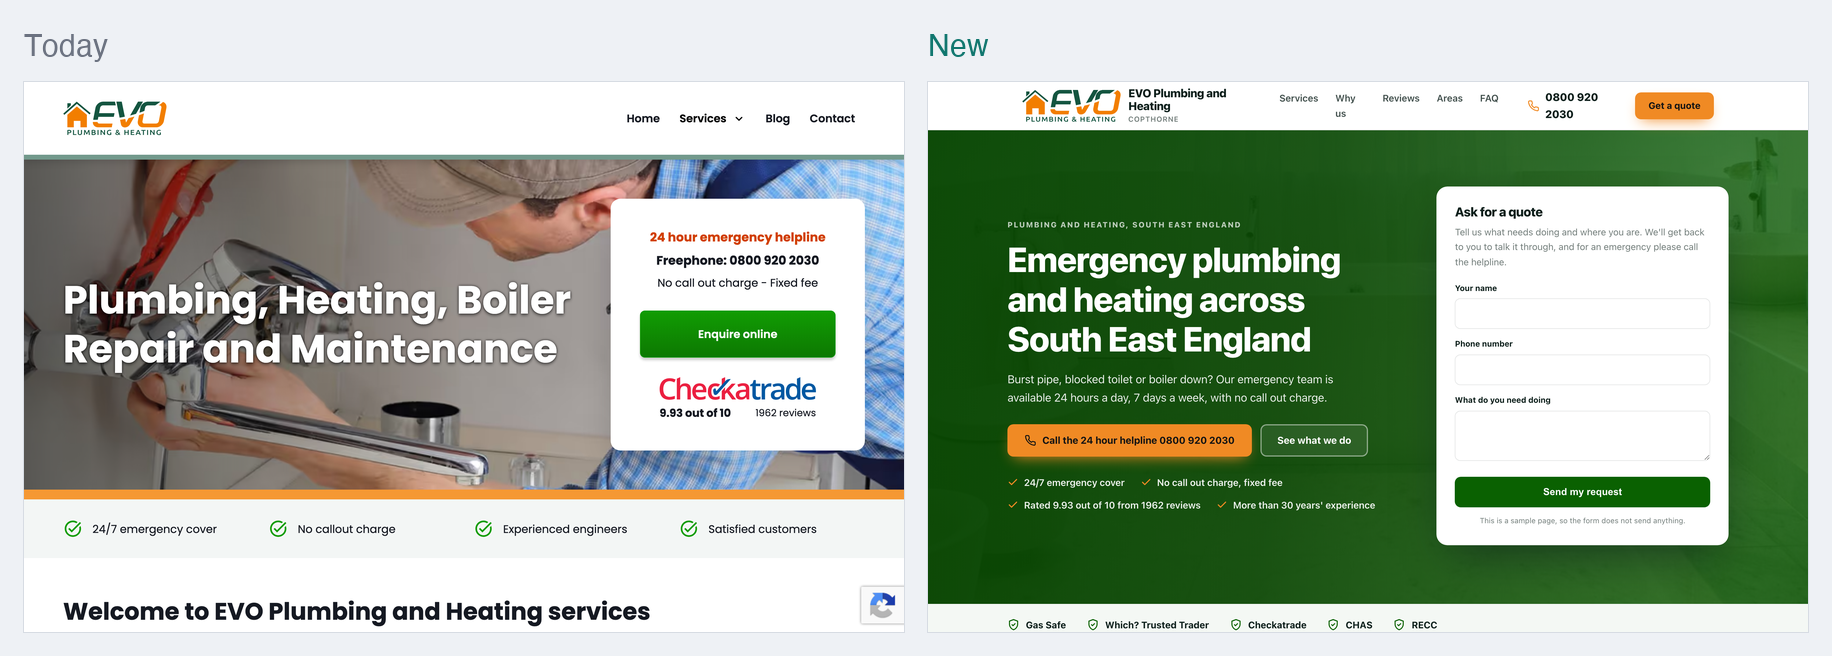
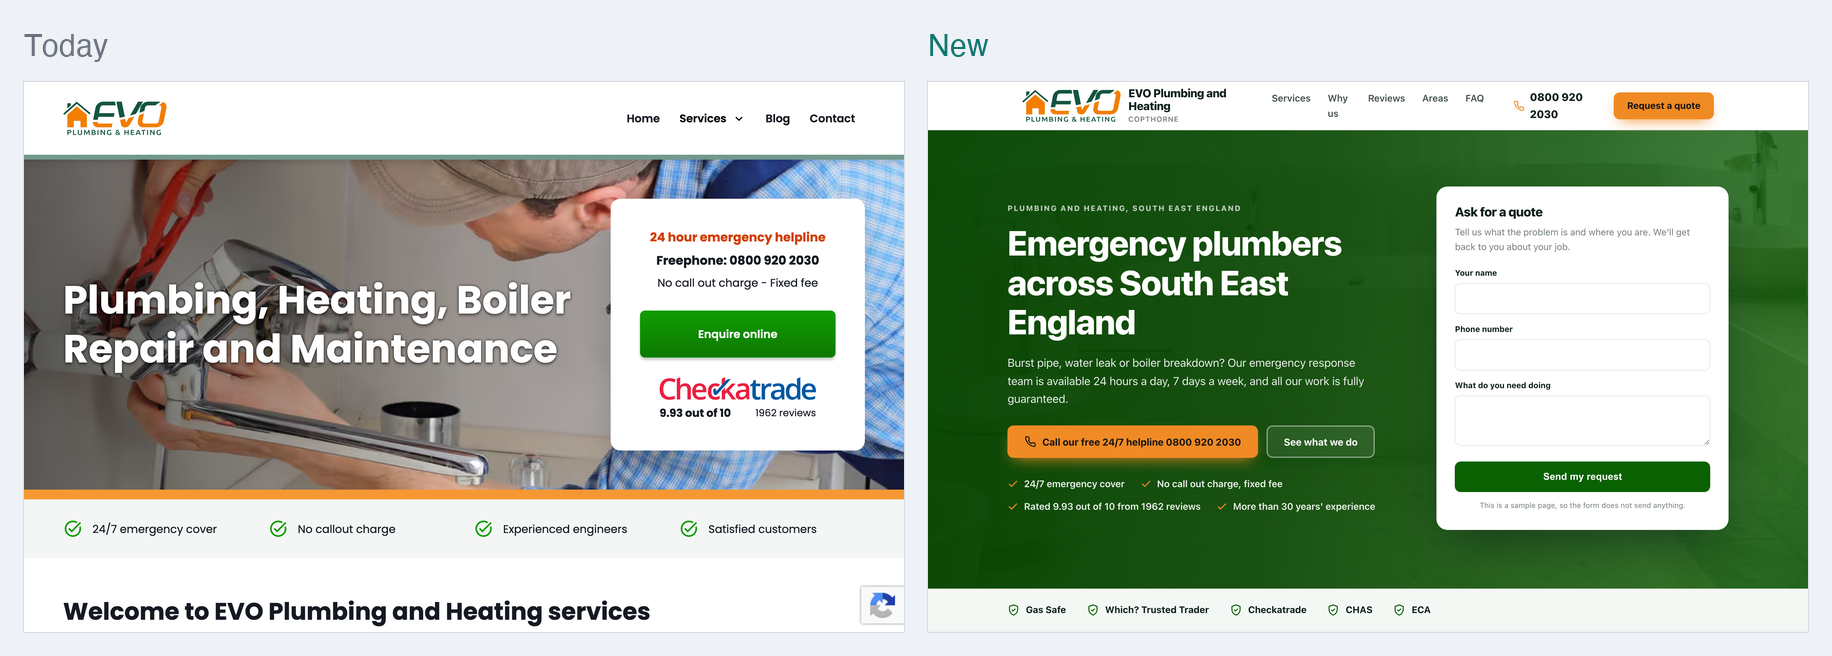
One page sample for EVO Plumbing and Heating

diff --git a/docs/62a7610696/index.html b/docs/62a7610696/index.html
@@ -4,14 +4,14 @@
 <meta charset="utf-8">
 <meta name="viewport" content="width=device-width, initial-scale=1">
 <meta name="robots" content="noindex,nofollow">
-<meta name="aso-build" content="db15c24f7314">
-<title>Plumber in Copthorne | EVO Plumbing and Heating</title>
-<meta name="description" content="Plumbing, heating and boiler repairs across Surrey, Sussex, Kent, Hampshire and London. Emergency cover 24/7 with no call out charge.">
+<meta name="aso-build" content="7d293884d419">
+<title>Plumbing and Heating in Copthorne | EVO Plumbing and Heating</title>
+<meta name="description" content="Plumbing, heating and boiler repairs across South East England from EVO Plumbing and Heating. 24/7 emergency cover with no call out charge.">
 <link rel="canonical" href="https://markygff.github.io/aso-mockups/62a7610696/">
 <meta property="og:type" content="website">
 <meta property="og:site_name" content="EVO Plumbing and Heating">
-<meta property="og:title" content="Plumber in Copthorne | EVO Plumbing and Heating">
-<meta property="og:description" content="Plumbing, heating and boiler repairs across Surrey, Sussex, Kent, Hampshire and London. Emergency cover 24/7 with no call out charge.">
+<meta property="og:title" content="Plumbing and Heating in Copthorne | EVO Plumbing and Heating">
+<meta property="og:description" content="Plumbing, heating and boiler repairs across South East England from EVO Plumbing and Heating. 24/7 emergency cover with no call out charge.">
 <meta property="og:url" content="https://markygff.github.io/aso-mockups/62a7610696/">
 <meta property="og:image" content="img/p02.jpg"><meta name="twitter:card" content="summary_large_image">
 <style>
@@ -283,7 +283,7 @@ p{margin:0}
       <a class="tel" href="tel:+448009202030">
         <svg viewBox="0 0 24 24" fill="none" stroke="currentColor" stroke-width="2" stroke-linecap="round" stroke-linejoin="round" aria-hidden="true"><path d="M22 16.9v3a2 2 0 0 1-2.2 2 19.8 19.8 0 0 1-8.6-3.1 19.5 19.5 0 0 1-6-6 19.8 19.8 0 0 1-3.1-8.7A2 2 0 0 1 4.1 2h3a2 2 0 0 1 2 1.7c.1 1 .4 1.9.7 2.8a2 2 0 0 1-.5 2.1L8.1 9.9a16 16 0 0 0 6 6l1.3-1.2a2 2 0 0 1 2.1-.5c.9.3 1.8.6 2.8.7a2 2 0 0 1 1.7 2z"/></svg><span>0800 920 2030</span>
       </a>
-      <a class="btn btn-accent" href="#quote">Get a quote</a>
+      <a class="btn btn-accent" href="#quote">Request a quote</a>
     </div>
   </div>
 </header>
@@ -293,10 +293,10 @@ p{margin:0}
   <div class="wrap hero-in">
     <div>
       <p class="eyebrow">Plumbing and heating, South East England</p>
-      <h1>Emergency plumbing and heating across South East England</h1>
-      <p class="hero-sub">Burst pipe, blocked toilet or boiler down? Our emergency team is available 24 hours a day, 7 days a week, with no call out charge.</p>
+      <h1>Emergency plumbers across South East England</h1>
+      <p class="hero-sub">Burst pipe, water leak or boiler breakdown? Our emergency response team is available 24 hours a day, 7 days a week, and all our work is fully guaranteed.</p>
       <div class="hero-actions">
-        <a class="btn btn-accent" href="tel:+448009202030"><svg viewBox="0 0 24 24" fill="none" stroke="currentColor" stroke-width="2" stroke-linecap="round" stroke-linejoin="round" aria-hidden="true"><path d="M22 16.9v3a2 2 0 0 1-2.2 2 19.8 19.8 0 0 1-8.6-3.1 19.5 19.5 0 0 1-6-6 19.8 19.8 0 0 1-3.1-8.7A2 2 0 0 1 4.1 2h3a2 2 0 0 1 2 1.7c.1 1 .4 1.9.7 2.8a2 2 0 0 1-.5 2.1L8.1 9.9a16 16 0 0 0 6 6l1.3-1.2a2 2 0 0 1 2.1-.5c.9.3 1.8.6 2.8.7a2 2 0 0 1 1.7 2z"/></svg>Call the 24 hour helpline 0800 920 2030</a>
+        <a class="btn btn-accent" href="tel:+448009202030"><svg viewBox="0 0 24 24" fill="none" stroke="currentColor" stroke-width="2" stroke-linecap="round" stroke-linejoin="round" aria-hidden="true"><path d="M22 16.9v3a2 2 0 0 1-2.2 2 19.8 19.8 0 0 1-8.6-3.1 19.5 19.5 0 0 1-6-6 19.8 19.8 0 0 1-3.1-8.7A2 2 0 0 1 4.1 2h3a2 2 0 0 1 2 1.7c.1 1 .4 1.9.7 2.8a2 2 0 0 1-.5 2.1L8.1 9.9a16 16 0 0 0 6 6l1.3-1.2a2 2 0 0 1 2.1-.5c.9.3 1.8.6 2.8.7a2 2 0 0 1 1.7 2z"/></svg>Call our free 24/7 helpline 0800 920 2030</a>
         <a class="btn btn-ghost" href="#services">See what we do</a>
       </div>
       <ul class="hero-bullets">
@@ -304,7 +304,7 @@ p{margin:0}
     </div>
     <div class="quote-card" id="quote">
       <h3>Ask for a quote</h3>
-      <p class="lead">Tell us what needs doing and where you are. We&#39;ll get back to you to talk it through, and for an emergency please call the helpline.</p>
+      <p class="lead">Tell us what the problem is and where you are. We&#39;ll get back to you about your job.</p>
       <form action="#" onsubmit="return false" novalidate>
         <div class="field"><label for="h-name">Your name</label>
           <input id="h-name" name="name" type="text" autocomplete="name"></div>
@@ -325,7 +325,7 @@ p{margin:0}
     <div class="trust-item"><svg viewBox="0 0 24 24" fill="none" stroke="currentColor" stroke-width="2" stroke-linecap="round" stroke-linejoin="round" aria-hidden="true"><path d="M12 2 4 5v6c0 5 3.4 9.4 8 11 4.6-1.6 8-6 8-11V5z"/><path d="m9 12 2 2 4-4"/></svg><span>Which? Trusted Trader</span></div>
     <div class="trust-item"><svg viewBox="0 0 24 24" fill="none" stroke="currentColor" stroke-width="2" stroke-linecap="round" stroke-linejoin="round" aria-hidden="true"><path d="M12 2 4 5v6c0 5 3.4 9.4 8 11 4.6-1.6 8-6 8-11V5z"/><path d="m9 12 2 2 4-4"/></svg><span>Checkatrade</span></div>
     <div class="trust-item"><svg viewBox="0 0 24 24" fill="none" stroke="currentColor" stroke-width="2" stroke-linecap="round" stroke-linejoin="round" aria-hidden="true"><path d="M12 2 4 5v6c0 5 3.4 9.4 8 11 4.6-1.6 8-6 8-11V5z"/><path d="m9 12 2 2 4-4"/></svg><span>CHAS</span></div>
-    <div class="trust-item"><svg viewBox="0 0 24 24" fill="none" stroke="currentColor" stroke-width="2" stroke-linecap="round" stroke-linejoin="round" aria-hidden="true"><path d="M12 2 4 5v6c0 5 3.4 9.4 8 11 4.6-1.6 8-6 8-11V5z"/><path d="m9 12 2 2 4-4"/></svg><span>RECC</span></div>
+    <div class="trust-item"><svg viewBox="0 0 24 24" fill="none" stroke="currentColor" stroke-width="2" stroke-linecap="round" stroke-linejoin="round" aria-hidden="true"><path d="M12 2 4 5v6c0 5 3.4 9.4 8 11 4.6-1.6 8-6 8-11V5z"/><path d="m9 12 2 2 4-4"/></svg><span>ECA</span></div>
   </div>
 </div>
 
@@ -334,49 +334,54 @@ p{margin:0}
     <div class="section-head">
       <p class="eyebrow">What we do</p>
       <h2>Plumbing and heating services</h2>
-      <p>From burst pipes and blocked toilets to boiler breakdowns, we handle planned and emergency work. All of it is fully guaranteed.</p>
+      <p>We deal with all aspects of plumbing and heating. That covers blocked pipes and water leaks through to boilers and hot water cylinders.</p>
     </div>
     <div class="grid grid-3">
       <article class="card card-photo">
         <img src="img/p03.jpg" alt="Plumbing" width="600" height="380" loading="lazy">
         <div class="card-body">
           <h3>Plumbing</h3>
-          <p>Blocked pipes, water leaks, hot water cylinders, ball valves and overflow systems. We deal with all aspects of plumbing.</p>
+          <p>Blocked pipes, water leaks, hot water cylinders, ball valves and overflow systems. Call us when water is going where it shouldn&#39;t.</p>
         </div>
       </article>
       <article class="card card-photo">
         <img src="img/p04.jpg" alt="Blocked Sinks and Toilets" width="600" height="380" loading="lazy">
         <div class="card-body">
           <h3>Blocked Sinks and Toilets</h3>
-          <p>A blocked sink or toilet can&#39;t wait. We&#39;re on hand 24 hours a day, 7 days a week to clear it quickly and with minimum fuss.</p>
+          <p>Whatever the cause of the blockage, we&#39;re on hand 24 hours a day, 7 days a week to deal with it quickly and with minimum fuss.</p>
         </div>
       </article>
       <article class="card card-photo">
         <img src="img/p05.jpg" alt="Central Heating" width="600" height="380" loading="lazy">
         <div class="card-body">
           <h3>Central Heating</h3>
-          <p>Cold radiators or no heating at all? Heating problems need a fast response, and help is always at hand.</p>
+          <p>Heating problems cause real disruption and inconvenience. We give a fast, effective response when your heating lets you down.</p>
         </div>
       </article>
       <article class="card">
         <div class="icon"><svg viewBox="0 0 24 24" fill="none" stroke="currentColor" stroke-width="2" stroke-linecap="round" stroke-linejoin="round" aria-hidden="true"><path d="M4 20 15 9"/><path d="m14 4 6 6-3 3-6-6z"/><path d="m3 15 6 6"/></svg></div>
         <h3>Boiler Servicing and Repairs</h3>
-        <p>Regular servicing keeps your boiler running well. If it breaks down, call our emergency helpline for a speedy fix.</p>
+        <p>Regular boiler maintenance for long-term performance. If your boiler breaks down, call our emergency helpline for a speedy resolution.</p>
       </article>
       <article class="card">
         <div class="icon"><svg viewBox="0 0 24 24" fill="none" stroke="currentColor" stroke-width="2" stroke-linecap="round" stroke-linejoin="round" aria-hidden="true"><path d="M12 3s5 4.2 5 9a5 5 0 0 1-10 0c0-1.8.8-3.2 1.6-4.2.3 1 1 1.9 1.9 2.3C11 8.4 10.7 5.6 12 3z"/></svg></div>
         <h3>Power Flushing</h3>
-        <p>Heating slow to warm up? A power flush can cut the risk of breakdowns, extend the life of your system and help keep your bills down.</p>
+        <p>For a boiler and heating system that has dropped in performance. A power flush reduces the risk of breakdowns and helps keep heating bills down.</p>
       </article>
       <article class="card">
         <div class="icon"><svg viewBox="0 0 24 24" fill="none" stroke="currentColor" stroke-width="2" stroke-linecap="round" stroke-linejoin="round" aria-hidden="true"><path d="M2 7h11v10H2z"/><path d="M13 10h4l4 3.5V17h-8z"/><circle cx="6" cy="18" r="2"/><circle cx="17" cy="18" r="2"/></svg></div>
         <h3>Leaking radiator valve</h3>
-        <p>A leak at the radiator valve can damage floors and ceilings below. Call us and we&#39;ll sort the valve and stop the leak.</p>
+        <p>A radiator valve that drips or weeps. We find the leak and put it right.</p>
       </article>
       <article class="card">
         <div class="icon"><svg viewBox="0 0 24 24" fill="none" stroke="currentColor" stroke-width="2" stroke-linecap="round" stroke-linejoin="round" aria-hidden="true"><path d="M12 2 4 5v6c0 5 3.4 9.4 8 11 4.6-1.6 8-6 8-11V5z"/><path d="m9 12 2 2 4-4"/></svg></div>
+        <h3>Water leak and water heater replacement</h3>
+        <p>For water leaks that need finding and fixing, and water heaters that need replacing.</p>
+      </article>
+      <article class="card">
+        <div class="icon"><svg viewBox="0 0 24 24" fill="none" stroke="currentColor" stroke-width="2" stroke-linecap="round" stroke-linejoin="round" aria-hidden="true"><circle cx="12" cy="12" r="9"/><path d="M12 7v5l3 2"/></svg></div>
         <h3>Tap change and fix leak</h3>
-        <p>A tap that won&#39;t stop leaking wastes water and gets worse over time. We&#39;ll fix the leak or fit a new tap.</p>
+        <p>A dripping or worn tap swapped for a new one, with the leak fixed at the same time.</p>
       </article>
     </div>
   </div>
@@ -392,29 +397,29 @@ p{margin:0}
       <div class="why-item">
         <div class="why-badge">1</div>
         <div>
-          <h3>24/7 emergency cover</h3>
-          <p>Emergencies don&#39;t keep office hours. Our emergency response team is available 24 hours a day, 7 days a week.</p>
+          <h3>Help at any hour</h3>
+          <p>Our emergency response team is available 24 hours a day, 7 days a week.</p>
         </div>
       </div>
       <div class="why-item">
         <div class="why-badge">2</div>
         <div>
           <h3>No call out charge</h3>
-          <p>We don&#39;t charge you to come out, and we work to a fixed fee.</p>
+          <p>There&#39;s no call out charge. We work on a fixed fee.</p>
         </div>
       </div>
       <div class="why-item">
         <div class="why-badge">3</div>
         <div>
-          <h3>Work fully guaranteed</h3>
-          <p>All our work is carefully carried out and fully guaranteed for your peace of mind.</p>
+          <h3>Guaranteed work</h3>
+          <p>All our work is carefully undertaken and fully guaranteed for your peace of mind.</p>
         </div>
       </div>
       <div class="why-item">
         <div class="why-badge">4</div>
         <div>
           <h3>Experienced engineers</h3>
-          <p>Our team brings more than 30 years&#39; experience to planned and emergency plumbing and heating work.</p>
+          <p>We bring more than 30 years&#39; experience to planned and emergency plumbing and heating work.</p>
         </div>
       </div>
     </div>
@@ -452,8 +457,8 @@ p{margin:0}
   <div class="wrap">
     <div class="section-head">
       <p class="eyebrow">Where we work</p>
-      <h2>Plumbers covering South East England</h2>
-      <p>We cover East Sussex, Hampshire, Kent, London, Surrey and West Sussex. If you&#39;re not sure we reach you, give us a call.</p>
+      <h2>Plumbing and heating across South East England</h2>
+      <p>We cover these counties across South East England. Our emergency team is available 24 hours a day, 7 days a week.</p>
     </div>
     <ul class="area-list">
 <li>East Sussex</li><li>Hampshire</li><li>Kent</li><li>London</li><li>Surrey</li><li>West Sussex</li>    </ul>
@@ -464,27 +469,27 @@ p{margin:0}
   <div class="wrap" style="max-width:840px">
     <div class="section-head">
       <p class="eyebrow">Questions</p>
-      <h2>Common questions</h2>
+      <h2>Plumbing and heating questions</h2>
     </div>
     <div class="faq-item">
       <h3><span>Q.</span>Is there an emergency plumber available at night or at weekends?</h3>
-      <p>Yes. Our emergency helpline is open 24 hours a day, 7 days a week, so you can call us at night and at weekends.</p>
+      <p>Yes. Our emergency response team is available 24 hours a day, 7 days a week. We deal with boiler breakdowns, burst pipes and water leaks. Call our freephone helpline.</p>
     </div>
     <div class="faq-item">
-      <h3><span>Q.</span>How quickly can a plumber come out?</h3>
-      <p>We don&#39;t publish a set response time. Call the 24 hour helpline, tell us what&#39;s wrong and where you are, and we&#39;ll tell you when an engineer can get to you.</p>
+      <h3><span>Q.</span>Which areas do you cover?</h3>
+      <p>We cover East Sussex, Hampshire, Kent, London, Surrey and West Sussex. If you&#39;re not sure we reach you, give us a call and ask.</p>
     </div>
     <div class="faq-item">
       <h3><span>Q.</span>Do you charge a call out fee?</h3>
-      <p>No. There&#39;s no call out charge and we work to a fixed fee. Ask us to explain the cost of the job when you call so you know where you stand.</p>
+      <p>No. There&#39;s no call out charge and we work on a fixed fee. Ask us about the cost of your job when you get in touch.</p>
     </div>
     <div class="faq-item">
-      <h3><span>Q.</span>What areas do you cover?</h3>
-      <p>We cover East Sussex, Hampshire, Kent, London, Surrey and West Sussex. Call us if you&#39;re not sure whether we reach your address.</p>
+      <h3><span>Q.</span>Do you service and repair boilers?</h3>
+      <p>Yes. We carry out regular boiler maintenance to keep it performing well. If your boiler breaks down, call our emergency helpline. Our accreditations include Gas Safe.</p>
     </div>
     <div class="faq-item">
-      <h3><span>Q.</span>Are you Gas Safe registered?</h3>
-      <p>We hold Gas Safe accreditation. We&#39;re also accredited with CHAS, ECA and RECC, listed on Checkatrade and a Which? Trusted Trader.</p>
+      <h3><span>Q.</span>What is power flushing and does my heating need it?</h3>
+      <p>If your boiler and central heating have dropped in performance, a power flush can help. It reduces the risk of breakdowns, can extend the life of your system and helps keep your heating bills down.</p>
     </div>
   </div>
 </section>
@@ -494,7 +499,7 @@ p{margin:0}
     <div>
       <p class="eyebrow">Get in touch</p>
       <h2 style="font-size:clamp(1.75rem,3.2vw,2.4rem);margin-bottom:14px">Ask for a quote</h2>
-      <p style="color:var(--muted);font-size:1.06rem">Tell us what needs doing and where you are. We&#39;ll get back to you to talk it through, and for an emergency please call the helpline.</p>
+      <p style="color:var(--muted);font-size:1.06rem">Tell us what the problem is and where you are. We&#39;ll get back to you about your job.</p>
       <div class="contact-facts">
         <div class="fact-row"><svg viewBox="0 0 24 24" fill="none" stroke="currentColor" stroke-width="2" stroke-linecap="round" stroke-linejoin="round" aria-hidden="true"><path d="M22 16.9v3a2 2 0 0 1-2.2 2 19.8 19.8 0 0 1-8.6-3.1 19.5 19.5 0 0 1-6-6 19.8 19.8 0 0 1-3.1-8.7A2 2 0 0 1 4.1 2h3a2 2 0 0 1 2 1.7c.1 1 .4 1.9.7 2.8a2 2 0 0 1-.5 2.1L8.1 9.9a16 16 0 0 0 6 6l1.3-1.2a2 2 0 0 1 2.1-.5c.9.3 1.8.6 2.8.7a2 2 0 0 1 1.7 2z"/></svg><div><strong>Phone</strong>
           <a href="tel:+448009202030">0800 920 2030</a></div></div>
@@ -517,7 +522,7 @@ p{margin:0}
           <input id="c-email" name="email" type="email" autocomplete="email"></div>
         <div class="field"><label for="c-service">What do you need</label>
           <select id="c-service" name="service">
-<option>Plumbing</option><option>Blocked Sinks and Toilets</option><option>Central Heating</option><option>Boiler Servicing and Repairs</option><option>Power Flushing</option><option>Leaking radiator valve</option><option>Tap change and fix leak</option>            <option>Something else</option>
+<option>Plumbing</option><option>Blocked Sinks and Toilets</option><option>Central Heating</option><option>Boiler Servicing and Repairs</option><option>Power Flushing</option><option>Leaking radiator valve</option><option>Water leak and water heater replacement</option><option>Tap change and fix leak</option>            <option>Something else</option>
           </select></div>
         <div class="field"><label for="c-msg">Tell us about the job</label>
           <textarea id="c-msg" name="message"></textarea></div>
@@ -534,7 +539,7 @@ p{margin:0}
     <div class="footer-in">
       <div>
         <div class="footer-brand">EVO Plumbing and Heating</div>
-        <p>Plumbing, heating and boiler repairs across South East England, with 24/7 emergency cover.</p>
+        <p>Plumbing, heating and boiler repairs across East Sussex, Hampshire, Kent, London, Surrey and West Sussex.</p>
 <p style="margin-top:14px"><a href="tel:+448009202030">0800 920 2030</a></p>      </div>
       <div>
         <h4>Services</h4>
@@ -558,7 +563,7 @@ p{margin:0}
     "@type": "Plumber",
     "name": "EVO Plumbing and Heating",
     "url": "https://markygff.github.io/aso-mockups/62a7610696/",
-    "description": "Plumbing, heating and boiler repairs across Surrey, Sussex, Kent, Hampshire and London. Emergency cover 24/7 with no call out charge.",
+    "description": "Plumbing, heating and boiler repairs across South East England from EVO Plumbing and Heating. 24/7 emergency cover with no call out charge.",
     "telephone": "0800 920 2030",
     "email": "info@evo-homeservices.co.uk",
     "address": {
@@ -641,6 +646,13 @@ p{margin:0}
         "@type": "Offer",
         "itemOffered": {
           "@type": "Service",
+          "name": "Water leak and water heater replacement"
+        }
+      },
+      {
+        "@type": "Offer",
+        "itemOffered": {
+          "@type": "Service",
           "name": "Tap change and fix leak"
         }
       }
@@ -656,15 +668,15 @@ p{margin:0}
         "name": "Is there an emergency plumber available at night or at weekends?",
         "acceptedAnswer": {
           "@type": "Answer",
-          "text": "Yes. Our emergency helpline is open 24 hours a day, 7 days a week, so you can call us at night and at weekends."
+          "text": "Yes. Our emergency response team is available 24 hours a day, 7 days a week. We deal with boiler breakdowns, burst pipes and water leaks. Call our freephone helpline."
         }
       },
       {
         "@type": "Question",
-        "name": "How quickly can a plumber come out?",
+        "name": "Which areas do you cover?",
         "acceptedAnswer": {
           "@type": "Answer",
-          "text": "We don't publish a set response time. Call the 24 hour helpline, tell us what's wrong and where you are, and we'll tell you when an engineer can get to you."
+          "text": "We cover East Sussex, Hampshire, Kent, London, Surrey and West Sussex. If you're not sure we reach you, give us a call and ask."
         }
       },
       {
@@ -672,23 +684,23 @@ p{margin:0}
         "name": "Do you charge a call out fee?",
         "acceptedAnswer": {
           "@type": "Answer",
-          "text": "No. There's no call out charge and we work to a fixed fee. Ask us to explain the cost of the job when you call so you know where you stand."
+          "text": "No. There's no call out charge and we work on a fixed fee. Ask us about the cost of your job when you get in touch."
         }
       },
       {
         "@type": "Question",
-        "name": "What areas do you cover?",
+        "name": "Do you service and repair boilers?",
         "acceptedAnswer": {
           "@type": "Answer",
-          "text": "We cover East Sussex, Hampshire, Kent, London, Surrey and West Sussex. Call us if you're not sure whether we reach your address."
+          "text": "Yes. We carry out regular boiler maintenance to keep it performing well. If your boiler breaks down, call our emergency helpline. Our accreditations include Gas Safe."
         }
       },
       {
         "@type": "Question",
-        "name": "Are you Gas Safe registered?",
+        "name": "What is power flushing and does my heating need it?",
         "acceptedAnswer": {
           "@type": "Answer",
-          "text": "We hold Gas Safe accreditation. We're also accredited with CHAS, ECA and RECC, listed on Checkatrade and a Which? Trusted Trader."
+          "text": "If your boiler and central heating have dropped in performance, a power flush can help. It reduces the risk of breakdowns, can extend the life of your system and helps keep your heating bills down."
         }
       }
     ]
